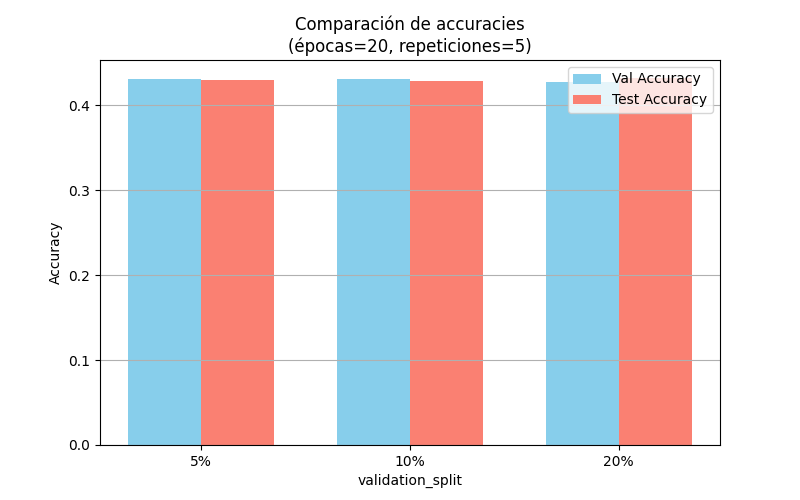
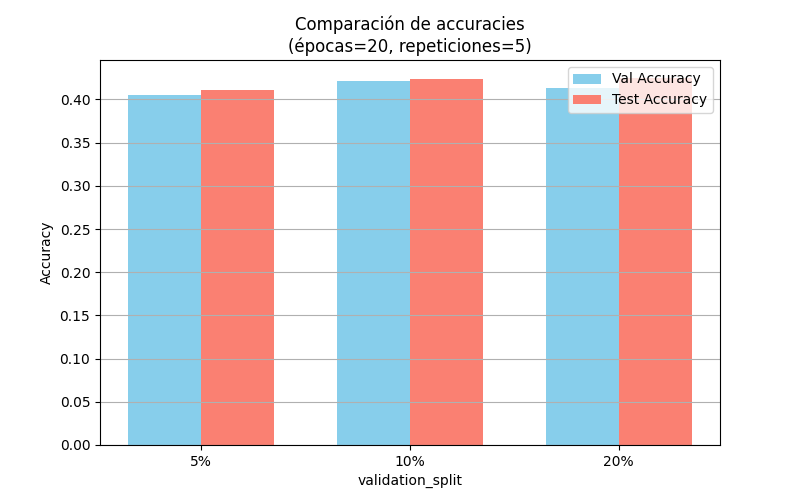
Buen Progreso, batch codeado, problemas con el ES

diff --git a/Hugo_Villasan_Atienza.py b/Hugo_Villasan_Atienza.py
@@ -1,12 +1,19 @@
 # Hugo Villasan Atienza. Sistemas Inteligentes. P2. Redes Neuronales.
+
 from tensorflow.keras.datasets import cifar10
 from tensorflow.keras.utils import to_categorical
 from tensorflow.keras import Sequential
 from tensorflow.keras.layers import Flatten, Dense, Activation
 from tensorflow.keras.optimizers import Adam
+from keras.callbacks import EarlyStopping
 import numpy as np
 import matplotlib.pyplot as plt
 import os
+import time
+from sklearn.metrics import confusion_matrix
+from sklearn.metrics import ConfusionMatrixDisplay
+
+
 
 def cargar_y_preprocesar_cifar10():
     (X_train, y_train), (X_test, y_test) = cifar10.load_data()
@@ -22,7 +29,7 @@ def cargar_y_preprocesar_cifar10():
     
     return X_train, y_train, X_test, y_test
 
-def MLP(input_shape, ocultas = [32], activ = ["sigmoid"], ep = 10, bs = 32, val_split = 0.1):
+def MLP(input_shape, ocultas = 32, activ = "sigmoid", ep = 10, bs = 32, val_split = 0.1, early_stopping=False):
     model = Sequential (name = "MLP")
     model.add(Flatten(input_shape = input_shape))
     
@@ -48,13 +55,24 @@ def MLP(input_shape, ocultas = [32], activ = ["sigmoid"], ep = 10, bs = 32, val_
     # Carga los datos
     X_train, y_train, X_test, y_test = cargar_y_preprocesar_cifar10()
     
+    # EarlyStopping
+    callbacks = []
+    if early_stopping:
+        cb = EarlyStopping(
+            monitor="val_loss",
+            patience=3,
+            min_delta=0.001,
+            restore_best_weights=True
+        )
+        callbacks = [cb]
+    
     # Entrena
     history = model.fit(
         X_train, y_train,
         batch_size = bs,
         epochs = ep,
         validation_split = val_split,
-        callbacks = [cb],
+        callbacks = callbacks,
         verbose = 1
     )
     
@@ -63,10 +81,12 @@ def MLP(input_shape, ocultas = [32], activ = ["sigmoid"], ep = 10, bs = 32, val_
     print ("Test accuracy:",score[1])
     print ("Test loss:",score[0])
     
-    return model, history
+    return model, history, X_test, y_test
+
     
 
-def ajuste_epochs(input_shape, epochs_list = [5, 10, 15, 20, 30], repeticiones = 5):
+def ajuste_epochs(input_shape, repeticiones = 5):
+    epochs_list = [5, 10, 15, 20, 30]
     
     for ep in epochs_list:
         print(f"\n--- Ajuste con {ep} epochs ({repeticiones} repeticiones) ---")
@@ -74,7 +94,7 @@ def ajuste_epochs(input_shape, epochs_list = [5, 10, 15, 20, 30], repeticiones =
         
         for i in range(repeticiones):
             print(f"  → Repetición {i+1}/{repeticiones}")
-            model, history = MLP(
+            _, history = MLP(
                 input_shape=input_shape,
                 ocultas=[32],
                 activ=["sigmoid"],
@@ -96,7 +116,138 @@ def ajuste_epochs(input_shape, epochs_list = [5, 10, 15, 20, 30], repeticiones =
             
         # Dibuja la grafica                
         dibuja_grafica_de_precision(history_avg, nombre=f"epochs_{ep}")
+    
         
+def ajuste_validation_split(input_shape, ep_optimo, repeticiones = 5):
+    splits = [0.05, 0.1, 0.2]
+    
+    val_accs = []
+    test_accs = []
+    for val_split in splits:
+        acc_val_total = 0
+        acc_test_total = 0
+        print(f"\n--- Entrenando con validation_split={val_split} ---")
+        for i in range (repeticiones):
+            print(f"  → Repetición {i+1}/{repeticiones}")
+            model, history = MLP(
+                input_shape=input_shape,
+                ocultas=[32],
+                activ=["sigmoid"],
+                ep=ep_optimo,
+                bs=32,
+                val_split=val_split
+            )
+            
+            # acc_val y acc_test de cada vuelta
+            acc_val_total += history.history["val_accuracy"][-1]
+            _, acc_test = model.evaluate(*cargar_y_preprocesar_cifar10()[2:], verbose=0)
+            acc_test_total += acc_test
+            
+        # Promedio
+        val_accs.append(acc_val_total / repeticiones)
+        test_accs.append(acc_test_total / repeticiones)
+        
+    
+    # Representacion grafica
+    dibuja_barras_accuracy_splits(splits, val_accs, test_accs, ep_optimo, repeticiones)
+    
+def ajuste_ES(input_shape, ep_optimo = 20, val_split_optimo = 0.2, repeticiones = 5):
+    
+    configuraciones = [
+        {"patience": 2, "min_delta": 0.001},
+        {"patience": 3, "min_delta": 0.001},
+        {"patience": 5, "min_delta": 0.0005},
+    ]
+    
+
+    medias_accuracy = []
+    medias_epocas = []
+
+    
+    for cfg in configuraciones:
+        print(f"\n--- Probar ES con patience={cfg['patience']} / min_delta={cfg['min_delta']} ---")
+        acc_total = 0
+        ep_total = 0
+        
+        for i in range(repeticiones):
+            model, history, X_test, y_test = MLP(
+                input_shape=input_shape,
+                ocultas=[32],
+                activ=["sigmoid"],
+                ep=ep_optimo,
+                bs=32,
+                val_split=val_split_optimo
+                )
+            
+            # Número de épocas reales entrenadas
+            ep_entrenadas = len(history.history["validation"])
+            ep_total += ep_entrenadas
+            
+            # Evalúa en test
+            _, acc_test = model.evaluate(X_test, y_test, verbose=0)
+            acc_total += acc_test
+            
+        medias_accuracy.append(acc_total / repeticiones)
+        medias_epocas.append(ep_total / repeticiones)
+
+
+def ajuste_batch_size(input_shape, ep_optimo=20, val_split_optimo=0.1, repes=5):
+    batch_sizes = [16, 32, 64, 128]
+    
+    medias_accuracy = []
+    medias_tiempo = []
+    confusion_matrices = {}
+
+    for bs in batch_sizes:
+        print(f"\n--- Entrenando con batch_size={bs} ---")
+        acc_total = 0
+        tiempo_total = 0
+        all_y_preds = []
+        all_y_trues = []
+        
+        for i in range(repes):
+            print(f"  → Repetición {i+1}/{repes}")
+            start_time = time.time() # Medimos el tiempo que tarda el modelo en entrenarse
+            model, _, X_test, y_test  = MLP(
+                input_shape=input_shape,
+                ocultas=[32],
+                activ=["sigmoid"],
+                ep=ep_optimo,
+                bs=bs,
+                val_split=val_split_optimo
+                )
+            end_time = time.time()
+            tiempo_total += (end_time - start_time)
+            
+            # Evalúa test acc
+            _, acc_test = model.evaluate(X_test, y_test, verbose=0)
+            acc_total += acc_test
+            
+            # Guarda predicciones para matriz confusión
+            y_pred = np.argmax(model.predict(X_test), axis=1)
+            y_true = np.argmax(y_test, axis=1)
+            all_y_preds.extend(y_pred)
+            all_y_trues.extend(y_true)
+            
+        medias_accuracy.append(acc_total / repes)
+        medias_tiempo.append(tiempo_total / repes)
+
+        
+        # Calcula matriz de confusión promedio
+        cm = confusion_matrix(all_y_trues, all_y_preds)
+        confusion_matrices[bs] = cm
+        
+    dibuja_batch_size_resultados(batch_sizes, medias_tiempo, medias_accuracy, ep_optimo, repes)
+    muestra_matrices_confusion(batch_sizes, confusion_matrices)
+    
+    
+#def ajuste_act_function(input_shape, ep_optimo=20, val_split_optimo=0.1, bs_optimo=32, repes=5):
+    
+# def ajuste_No_capas():
+#     
+# def CNN():
+    
+            
 def dibuja_grafica_de_precision(history_dict, nombre="grafica"):
     # Asegura que existe carpeta de salida
     os.makedirs("graficas", exist_ok=True)
@@ -132,37 +283,6 @@ def dibuja_grafica_de_precision(history_dict, nombre="grafica"):
     # Guarda la grafica
     ruta = f"graficas/loss_{nombre}.png"
     plt.savefig(ruta)
-        
-def ajuste_validation_split(input_shape, ep_optimo, splits = [0.05, 0.1, 0.2], repeticiones = 5):
-    val_accs = []
-    test_accs = []
-    for val_split in splits:
-        acc_val_total = 0
-        acc_test_total = 0
-        print(f"\n--- Entrenando con validation_split={val_split} ---")
-        for i in range (repeticiones):
-            print(f"  → Repetición {i+1}/{repeticiones}")
-            model, history = MLP(
-                input_shape=input_shape,
-                ocultas=[32],
-                activ=["sigmoid"],
-                ep=ep_optimo,
-                bs=32,
-                val_split=val_split
-            )
-            
-            # acc_val y acc_test de cada vuelta
-            acc_val_total += history.history["val_accuracy"][-1]
-            _, acc_test = model.evaluate(*cargar_y_preprocesar_cifar10()[2:], verbose=0)
-            acc_test_total += acc_test
-            
-        # Promedio
-        val_accs.append(acc_val_total / repeticiones)
-        test_accs.append(acc_test_total / repeticiones)
-        
-    
-    # Representacion grafica
-    dibuja_barras_accuracy_splits(splits, val_accs, test_accs, ep_optimo, repeticiones)
     
 def dibuja_barras_accuracy_splits(splits, val_accs, test_accs, ep_optimo, repeticiones, nombre="comparacion_valsplit"):
     x = np.arange(len(splits))
@@ -176,23 +296,67 @@ def dibuja_barras_accuracy_splits(splits, val_accs, test_accs, ep_optimo, repeti
     plt.xlabel("validation_split")
     plt.ylabel("Accuracy")
     plt.title(f"Comparación de accuracies\n(épocas={ep_optimo}, repeticiones={repeticiones})")
-    plt.legend()
+    plt.legend(loc='lower right')
     plt.grid(axis='y')
 
     os.makedirs("graficas", exist_ok=True)
-    ruta = f"graficas/{nombre}.png"	
+    ruta = f"graficas/{nombre}.png"
     plt.savefig(ruta)
     print(f"[✔] Gráfica de barras guardada en {ruta}")
+    plt.show()    
+    
+def dibuja_batch_size_resultados(batch_sizes, medias_tiempo, medias_accuracy, ep_optimo, repes, nombre_archivo="ajuste_batch_size"):
+
+    x = np.arange(len(batch_sizes))
+
+    fig, ax1 = plt.subplots(figsize=(9, 5))
+
+    color_tiempo = 'skyblue'
+    color_acc = 'salmon'
+
+
+    ax1.set_xlabel('Batch size')
+    ax1.set_ylabel('Tiempo (s)', color=color_tiempo)
+    ax1.bar(x - 0.2, medias_tiempo, width=0.4, color=color_tiempo, label='Tiempo (s)')
+    ax1.tick_params(axis='y', labelcolor=color_tiempo)
+    ax1.set_xticks(x)
+    ax1.set_xticklabels(batch_sizes)
+    ax1.grid(axis='y')
+
+    ax2 = ax1.twinx() 
+    ax2.set_ylabel('Test Accuracy', color=color_acc)
+    ax2.bar(x + 0.2, medias_accuracy, width=0.4, color=color_acc, label='Test Accuracy')
+    ax2.tick_params(axis='y', labelcolor=color_acc)
+
+    plt.title(f"Ajuste de batch_size (ép. máx={ep_optimo}, {repes} repeticiones)")
+
+    # Guardar y mostrar
+    os.makedirs("graficas", exist_ok=True)
+    ruta = f"graficas/{nombre_archivo}.png"
+    plt.savefig(ruta)
+    print(f"[✔] Gráfica guardada en {ruta}")
     plt.show()
-            
-        
+    plt.close()
+
+
+    
+def muestra_matrices_confusion(batch_sizes, confusion_matrices):
+    for bs in batch_sizes:
+        cm = confusion_matrices[bs]
+        disp = ConfusionMatrixDisplay(confusion_matrix=cm, display_labels=list(range(10)))
+        disp.plot(cmap=plt.cm.Blues)
+        plt.title(f"Matriz de Confusión - Batch Size {bs}")
+        plt.grid(False)
+        os.makedirs("graficas", exist_ok=True)
+        plt.savefig(f"graficas/conf_matrix_bs_{bs}.png")
+        plt.show()
 
 
 
 if __name__ == "__main__":
      
     # Tarea A. Definir, utilizar y evaluar un MLP con Keras
-    MLP()
+    #MLP()
     
     # Tarea B. Ajustar el valor de los parámetros epochs y validation_split
     
@@ -200,6 +364,8 @@ if __name__ == "__main__":
     #ajuste_validation_split(input_shape=(32, 32, 3), ep_optimo=20, repeticiones=5)
 
     # Tarea C. Ajustar el valor del parámetro batch_size
+    ajuste_batch_size(input_shape=(32, 32, 3), ep_optimo=20, val_split_optimo=0.2, repes=5)
+
     
     # Tarea D. Probar diferentes funciones de activación
     
